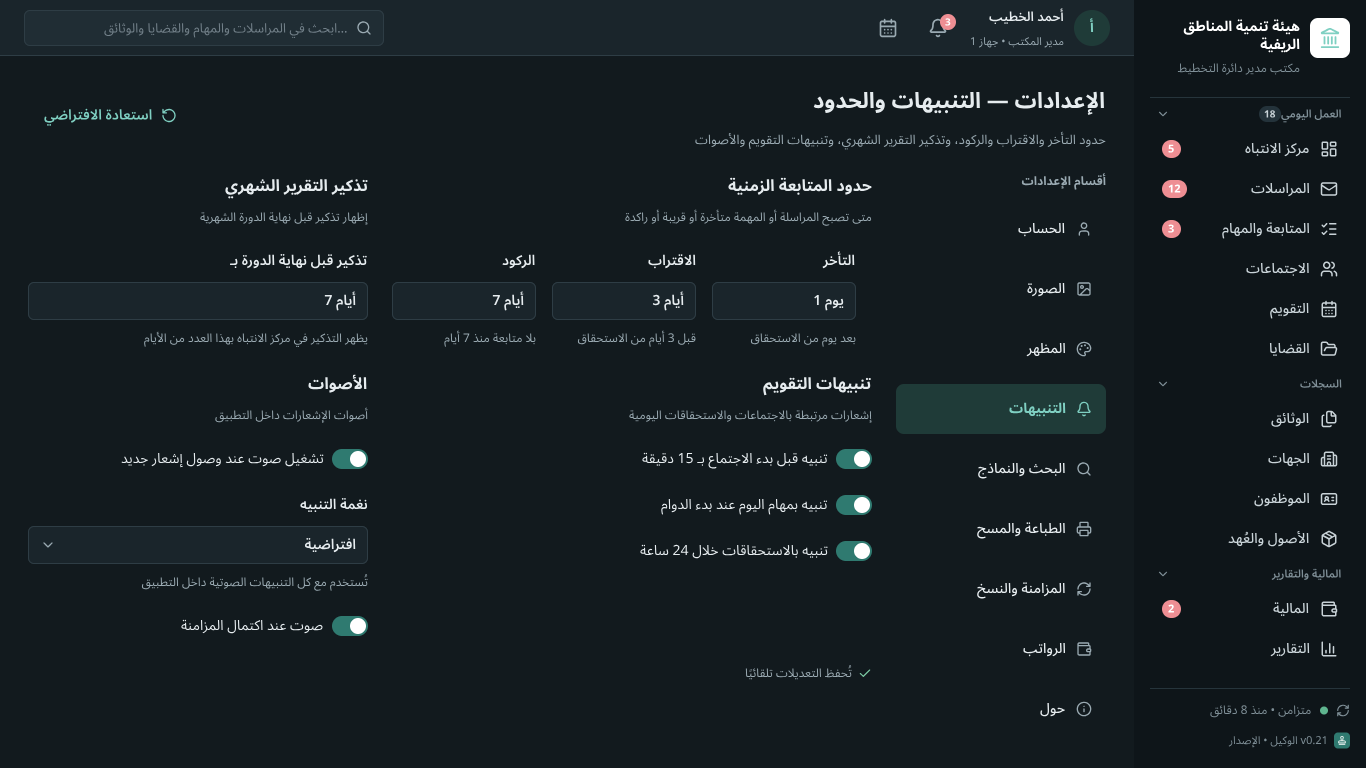
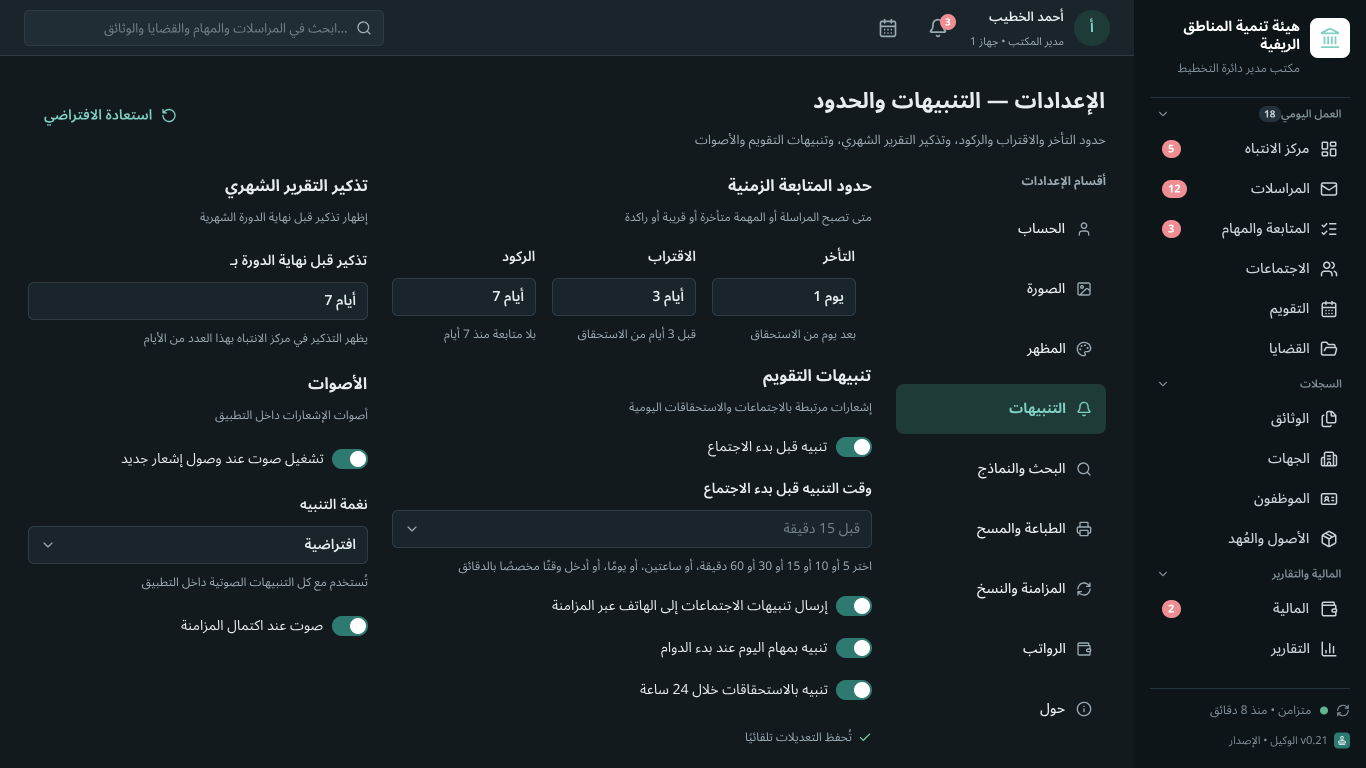
design: W86 meeting reminder lead time selectable + phone delivery toggle (item 56); W37 agenda textarea height; exports updated

diff --git a/docs/AGREEMENT.md b/docs/AGREEMENT.md
@@ -107,3 +107,4 @@
 | 53 | التقرير الشهري الشامل وأتمتته: تقرير واحد لكل دورة مالية يضم النشاط والمالية معًا، وإصداره هو ما يقفل الدورة (بند 51). لا تجميع هرمي لتقارير المكاتب التابعة. (أ) البناء المستمر: عند بداية كل دورة تُنشأ مسودة التقرير تلقائيًا وتتحدث لحظيًا من بيانات النظام. كل سجل (مهمة، قرار، اجتماع، ملاحظة، مراسلة، قضية، عائق، احتياج) يحمل خيارين "يُضمَّن في التقرير" و"يُبرَز في التقرير" مع سطر تعليق اختياري للتقرير؛ القواعد الافتراضية القابلة للتغيير من الإعدادات: القرارات والاجتماعات تُضمَّن دائمًا، المهام إذا أُنجزت أو تأخرت في الدورة، الملاحظات إذا عُلِّمت فقط، المصروفات والإيرادات دائمًا. على الهاتف: إدخال سريع "ملاحظة للتقرير" نصًا أو صوتًا. (ب) الأقسام: غلاف (شعار المؤسسة واسمها، المكتب، اسم الدورة ومداها، الموظف، تاريخ الإصدار)؛ ملخص تنفيذي بمؤشرات (وارد/صادر، مهام منجزة/جارية/متأخرة، اجتماعات، قرارات ونسبة تنفيذها، التزامات، قضايا، إجمالي المصروفات والإيرادات ورصيد النقدية، حركات العُهد) مع مقارنة بالدورة السابقة وسهم اتجاه ورسم بياني بسيط؛ ثم المراسلات، الاجتماعات والقرارات ومتابعتها، المهام والالتزامات والعوائق، القضايا، الملاحظات المعلَّمة، المالية بتفصيل الفئات، الأصول والعُهد، الموظفون والرواتب، "احتياجات وتوصيات للدورة القادمة" يملؤها النظام مسبقًا من الاحتياجات والعوائق المفتوحة ويحررها المستخدم، و"كلمة المدير" نص حر. (ج) الصياغة: جمل عربية قالبية حتمية تراعي المفرد والمثنى والجمع، بلا نموذج لغوي؛ كل نص مولَّد قابل للتعديل قبل الإصدار، ويمكن إخفاء أي قسم أو إعادة ترتيبه. (د) الجاهزية: شاشة التقرير تعرض نسبة الجاهزية ونواقصها بروابط للحل السريع (مصروفات هاتف بانتظار التأكيد، جرد نقدية لم يُسجَّل، مهام انتهى موعدها بلا تحديث حالة، اجتماعات بلا محضر أو قرارات، قرارات بلا حالة متابعة، إحالات تجاوزت المهلة، آخر مزامنة مع جهاز المدير أو الهاتف أقدم من الحد المضبوط)، ويذكر تذكير بند 52 النسبة والنواقص. (هـ) الإصدار إجراء واحد بتأكيد: يقفل الدورة المالية، ويولّد المستند من قالب Word (قالب افتراضي مدمج، ويمكن لمدير النظام تضمين قالب المؤسسة في حزمة الإعداد) ونسخة PDF بمعاينة مطابقة للطباعة، ويحفظه في خزنة الوثائق نسخة مجمّدة موقّعة مع SHA-256. خيار "إرسال إلى الجهة الأعلى" عند الإصدار يسجّل التقرير مراسلة صادرة برقم رسمي إلى المكتب الأعلى ويُرسل بحزمة .wakeel-msg في المزامنة التالية. التصحيح بعد الإصدار بملحق تصحيحي مرقّم لا بتعديل الأصل. |
 | 54 | الشعار المعتمد: المقترح 1 «الختم الرسمي» (خاتم دائري يحتضن ظرف مراسلة)؛ تُشتق منه أيقونة ويندوز والأيقونة التكيفية لأندرويد وشاشتا البداية وترويسة المثبّت كما في لوحة العلامة داخل ملف التصميم (اعتمده المالك 2026-09-14). |
 | 55 | دعم RTL كامل مع النص المختلط عربي/إنجليزي: كل رمز لاتيني أو رقمي داخل جملة عربية (أرقام رسمية، معرّفات الأجهزة، أسماء الملفات والامتدادات، الإصدارات، المصطلحات مثل USB وQR وOCR وWebView2) يُعزل باتجاهه (bdi/unicode-bidi: isolate في الويب، BidiFormatter على أندرويد، عزل Unicode في التصميم وفي الوثائق المولّدة)، والنص الحر يُعرض بـplaintext، والاتجاه الأساسي RTL دائمًا مهما كان أول حرف، مع اختبارات آلية لسلاسل مختلطة (طلب المالك 2026-09-14). |
+| 56 | تنبيه الاجتماع قابل للضبط ويصل إلى الهاتف: في إعدادات التنبيهات (W86) يختار المستخدم وقت التنبيه قبل بدء الاجتماع من قائمة (5، 10، 15، 30، 60 دقيقة، ساعتان، يوم) أو يُدخل وقتًا مخصصًا بالدقائق، والافتراضي 15 دقيقة، ويمكن تعطيله؛ ويمكن تغيير وقت التنبيه لاجتماع بعينه عند إنشائه أو تعديله (حقل «التذكير» في W37) فيغلب على الافتراضي. التنبيه ليس على الحاسوب فقط: تُزامَن المواعيد ووقت التنبيه مع الهاتف المقترن (بند 9)، ويصدر الهاتف الإشعار في وقته من بياناته المحلية دون حاجة إلى اتصال بالحاسوب لحظة التنبيه، بشرط أن تكون آخر مزامنة قد نقلت الموعد؛ ويظهر التنبيه في قائمة إشعارات الهاتف (M27) وفي مركز الانتباه والجرس على الحاسوب. خيار «إرسال تنبيهات الاجتماعات إلى الهاتف» مفعّل افتراضيًا في الإعدادات (طلب المالك 2026-09-15). |

diff --git a/docs/design/SCREENS.md b/docs/design/SCREENS.md
@@ -94,7 +94,7 @@
 | W83 | الإعدادات — الحساب | 16500 | 0 | — | تبويبات جانبية داخل الصفحة (الحساب، الصورة، المظهر، التنبيهات، البحث والنماذج، الطباعة والمسح، المزامنة والنسخ، الرواتب، حول)؛ الحساب: الاسم وصورة، تغيير كلمة المرور، القفل التلقائي (مدة)، كل إعداد بشرح وتحقق وزر حفظ مع رسالة تأكيد |
 | W84 | الإعدادات — الصورة الشخصية | 16500 | 1 | — | إضافة/تغيير/إزالة، معاينة دائرية، حوار قصّ بمربع وتكبير |
 | W85 | الإعدادات — المظهر | 16500 | 2 | — | فاتح/داكن/حسب النظام كبطاقات معاينة، حجم الخط، الكثافة |
-| W86 | الإعدادات — التنبيهات والحدود | 16500 | 3 | — | حدود التأخر/الاقتراب/الركود (أيام) مع شرح، تذكير التقرير الشهري (قبل بكم يوم)، تنبيهات التقويم، أصوات |
+| W86 | الإعدادات — التنبيهات والحدود | 16500 | 3 | — | حدود التأخر/الاقتراب/الركود (أيام) مع شرح، تذكير التقرير الشهري (قبل بكم يوم)، تنبيهات التقويم (وقت تنبيه الاجتماع من قائمة أو مخصص، إرسال إلى الهاتف عبر المزامنة — بند 56)، أصوات |
 | W87 | الإعدادات — البحث وOCR والنماذج | 16500 | 4 | — | مجلد النماذج (المسار، زر فتح المجلد)، قائمة النماذج المكتشفة: مناسب (قابل للاختيار، محدد)، غير مناسب (سبب واضح، معطّل)، "جارٍ التجهيز 40%" مع "البحث مستمر بالنموذج الحالي"، لغات OCR |
 | W88 | الإعدادات — الطباعة والمسح والمزامنة والنسخ | 16500 | 5 | — | الطابعة الافتراضية، الماسح، مجلد الحزم، تذكير النسخ الاحتياطي، اسم الجهاز، الأجهزة المقترنة |
 | W89 | الإعدادات — الرواتب والمكافآت | 16500 | 6 | — | قواعد قابلة للتعديل: مكوّنات الراتب الافتراضية، أنواع المكافآت، الاستقطاعات، عملة ₪، تنبيه "التعديل لا يمس الكشوف المثبّتة" |

diff --git a/docs/design/PRESENTATION.md b/docs/design/PRESENTATION.md
@@ -37,6 +37,7 @@
 - الحركات المالية حرة التعديل حتى «إصدار التقرير الشهري» الذي يقفل الدورة (بند 51)، الشاشات W64 وW67 وW72.
 - دورة الشهر يحددها مدير النظام (يوم البداية 1–28) مع التذكير (بند 52)، الشاشتان A04 وW67.
 - تقرير شهري واحد شامل بمسودة مستمرة وجاهزية ونشر بضغطة واحدة مع خيار الإرسال إلى الجهة الأعلى (بند 53)، الشاشات W70–W73.
+- تنبيه الاجتماع بوقت يختاره المستخدم (الافتراضي 15 دقيقة) ويصل إلى الهاتف عبر المزامنة (بند 56)، الشاشتان W86 وM27.
 - لا خادم ولا إنترنت: المزامنة بحزم موقّعة على USB والهاتف عبر كابل USB، وقاعدة البيانات محلية مشفّرة (SQLCipher)، الشاشات W12 وW75–W82 وM22–M24.
 
 ## ما فُعل بخصوص النص المختلط في التصميم نفسه
